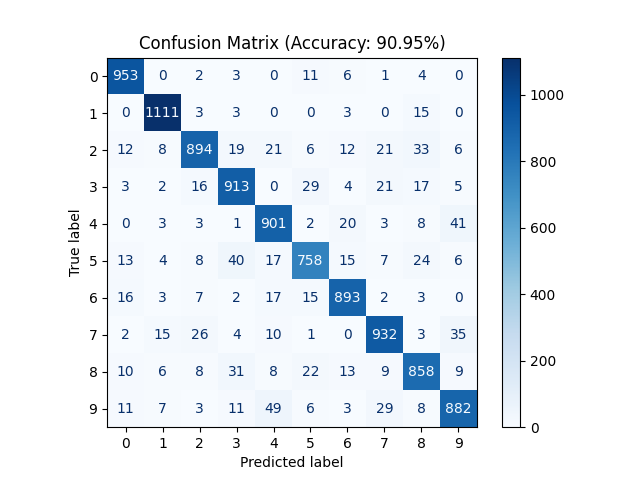
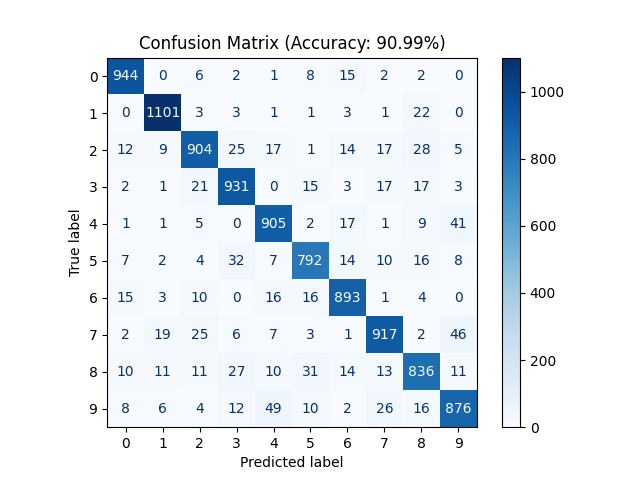
added plotting file, made room for optimizer, added live plot

diff --git a/scratch-nn/src/train.py b/scratch-nn/src/train.py
@@ -1,14 +1,12 @@
 import numpy as np
-import matplotlib.pyplot as plt
 import click
 from torchvision.datasets import MNIST
 from torchvision import transforms
 from torch.utils.data import DataLoader
-from sklearn.metrics import confusion_matrix, ConfusionMatrixDisplay, accuracy_score
-
+from plot_utils import plot_losses, plot_predictions, plot_confusion_matrix
 from network import NeuralNetwork
 
-def _load_data():
+def load_data():
     transform = transforms.Compose([
         transforms.ToTensor(),
         transforms.Normalize((0.1307,), (0.3081,))  # mean and std dev of MNIST dataset
@@ -19,20 +17,6 @@ def _load_data():
 
     train_loader = DataLoader(train_dataset, batch_size=128, shuffle=True)
     val_loader = DataLoader(test_dataset, batch_size=1000, shuffle=False)
-    
-    return train_loader, val_loader
-
-@click.command()
-@click.option('--epochs', default=100)
-@click.option('--lr', default=0.01)
-def train(epochs, lr):
-    train_loader, val_loader = _load_data()
-
-    model = NeuralNetwork(
-        in_features=28*28,
-        hidden_layers=[128, 64],
-        out_features=10
-    )
 
     x_train, y_train = [], []
     for x, y in train_loader:
@@ -42,18 +26,6 @@ def train(epochs, lr):
     x_train = np.array(x_train)
     y_train = np.array(y_train)
 
-    losses = model.train(x_train, y_train, epochs, lr)
-
-    train_preds, _ = model.predict(x_train)
-    train_pred_cls = np.argmax(train_preds, axis=1)
-
-    plt.figure(figsize=(10, 5))
-    plt.plot(losses)
-    plt.xlabel('Epochs')
-    plt.ylabel('Loss')
-    plt.title(f'{epochs = }, {lr = }')
-    plt.savefig(f"figs/Loss.png")
-
     x_val, y_val = [], []
     for x, y in val_loader:
         x_val.extend(x.view(-1, 28*28).numpy())
@@ -62,27 +34,31 @@ def train(epochs, lr):
     x_val = np.array(x_val)
     y_val = np.array(y_val)
 
+    return x_train, y_train, x_val, y_val
+
+@click.command()
+@click.option('--epochs', default=100)
+@click.option('--lr', default=0.05)
+def train(epochs, lr):
+    x_train, y_train, x_val, y_val = load_data()
+
+    model = NeuralNetwork(
+        in_features=28*28,
+        hidden_layers=[128, 64],
+        out_features=10
+    )
+    losses = model.train(x_train, y_train, epochs, lr)
+    train_preds, _ = model.predict(x_train)
+    train_pred_cls = np.argmax(train_preds, axis=1)
+
+    plot_losses(losses, epochs, lr)
+
     preds, _ = model.predict(x_val)
     pred_cls = np.argmax(preds, axis=1)
     
-    # true vs predicted labels for a subset of validation data
-    for y, cls, name in [(y_val, pred_cls, "Val"), (y_train, train_pred_cls, "Train")]:
-        plt.figure(figsize=(10, 5))
-        plt.scatter(range(len(y[:100])), y[:100], label='True Labels')
-        plt.scatter(range(len(cls[:100])), cls[:100], label='Predicted Labels', marker='x')
-        plt.xlabel('Sample Index')
-        plt.ylabel('Class')
-        plt.title(f'True vs Predicted Labels ({name})')
-        plt.legend()
-        plt.savefig(f"figs/Preds_{name}.png")
+    plot_predictions(y_val, pred_cls, y_train, train_pred_cls)
+    plot_confusion_matrix(y_val, pred_cls)
 
-    # confusion matrix
-    cm = confusion_matrix(y_val, pred_cls)
-    disp = ConfusionMatrixDisplay(confusion_matrix=cm, display_labels=range(10))    
-    plt.figure(figsize=(10, 10))
-    disp.plot(cmap=plt.cm.Blues, values_format='d')
-    plt.title(f'Confusion Matrix (Accuracy: {accuracy_score(y_val, pred_cls) * 100:.2f}%)')
-    plt.savefig("figs/ConfusionMatrix.png")
 
 if __name__ == '__main__':
     train()

diff --git a/scratch-nn/src/plot_utils.py b/scratch-nn/src/plot_utils.py
@@ -1,0 +1,61 @@
+import matplotlib
+matplotlib.use('TkAgg')  # Use Tkinter as the graphical backend
+import matplotlib.pyplot as plt
+from matplotlib.animation import FuncAnimation
+from sklearn.metrics import confusion_matrix, ConfusionMatrixDisplay, accuracy_score
+
+
+def plot_losses(losses: list, epochs: int, lr: float) -> None:
+    plt.figure(figsize=(10, 5))
+    plt.plot(losses)
+    plt.xlabel('Epochs')
+    plt.ylabel('Loss')
+    plt.title(f'{epochs = }, {lr = }')
+    plt.savefig(f"figs/Loss.png")
+
+def plot_predictions(y_val, pred_cls, y_train, train_pred_cls):
+    # true vs predicted labels for a subset of validation data
+    for y, cls, name in [(y_val, pred_cls, "Val"), (y_train, train_pred_cls, "Train")]:
+        plt.figure(figsize=(10, 5))
+        plt.scatter(range(len(y[:100])), y[:100], label='True Labels')
+        plt.scatter(range(len(cls[:100])), cls[:100], label='Predicted Labels', marker='x')
+        plt.xlabel('Sample Index')
+        plt.ylabel('Class')
+        plt.title(f'True vs Predicted Labels ({name})')
+        plt.legend()
+        plt.savefig(f"figs/Preds_{name}.png")
+
+def plot_confusion_matrix(y_val, pred_cls):
+    cm = confusion_matrix(y_val, pred_cls)
+    disp = ConfusionMatrixDisplay(confusion_matrix=cm, display_labels=range(10))    
+    plt.figure(figsize=(10, 10))
+    disp.plot(cmap=plt.cm.Blues, values_format='d')
+    plt.title(f'Confusion Matrix (Accuracy: {accuracy_score(y_val, pred_cls) * 100:.2f}%)')
+    plt.savefig("figs/ConfusionMatrix.png")
+
+def plot_losses_live(losses: list):
+    fig, ax = plt.subplots()
+    line, = ax.plot([], [], 'r-')
+    ax.set_xlim(0, len(losses))
+    ax.set_ylim(0, max(losses) if losses else 1)
+    ax.set_title('Training Loss Over Epochs')
+    ax.set_xlabel('Epoch')
+    ax.set_ylabel('Loss')
+
+    xdata, ydata = [], []
+
+    def init():
+        line.set_data([], [])
+        return line,
+
+    def update(epoch):
+        xdata.append(epoch)
+        ydata.append(losses[epoch])
+        line.set_data(xdata, ydata)
+        ax.set_xlim(0, len(losses))
+        ax.set_ylim(0, max(losses) if losses else 1)
+        return line,
+
+    ani = FuncAnimation(fig, update, frames=range(len(losses)), init_func=init, blit=True)
+
+    ani.save('figs/training_loss.mp4', writer='ffmpeg', fps=10)

diff --git a/scratch-nn/src/network.py b/scratch-nn/src/network.py
@@ -1,6 +1,6 @@
 import numpy as np
 from activation_functions import RelU, SoftMax
-
+from plot_utils import plot_losses_live
 
 class NeuralNetwork:
     def __init__(self, in_features: int, hidden_layers: list[int], out_features: int) -> None:
@@ -76,11 +76,12 @@ class NeuralNetwork:
 
         return loss
 
-    def train(self, x, y, epochs=100, lr=0.01) -> list[float]:
+    def train(self, x, y, epochs, lr) -> list[float]:
         losses = []
         for i in range(epochs):
             loss = self._backpropogation(x, y, lr)
             losses.append(loss)
             print(f'Epoch {i+1}/{epochs} - Loss: {loss}')
 
+        plot_losses_live(losses)
         return losses

diff --git a/scratch-nn/src/optimizers.py b/scratch-nn/src/optimizers.py
@@ -1,0 +1,4 @@
+import numpy as np
+
+class Adam():
+    ...
